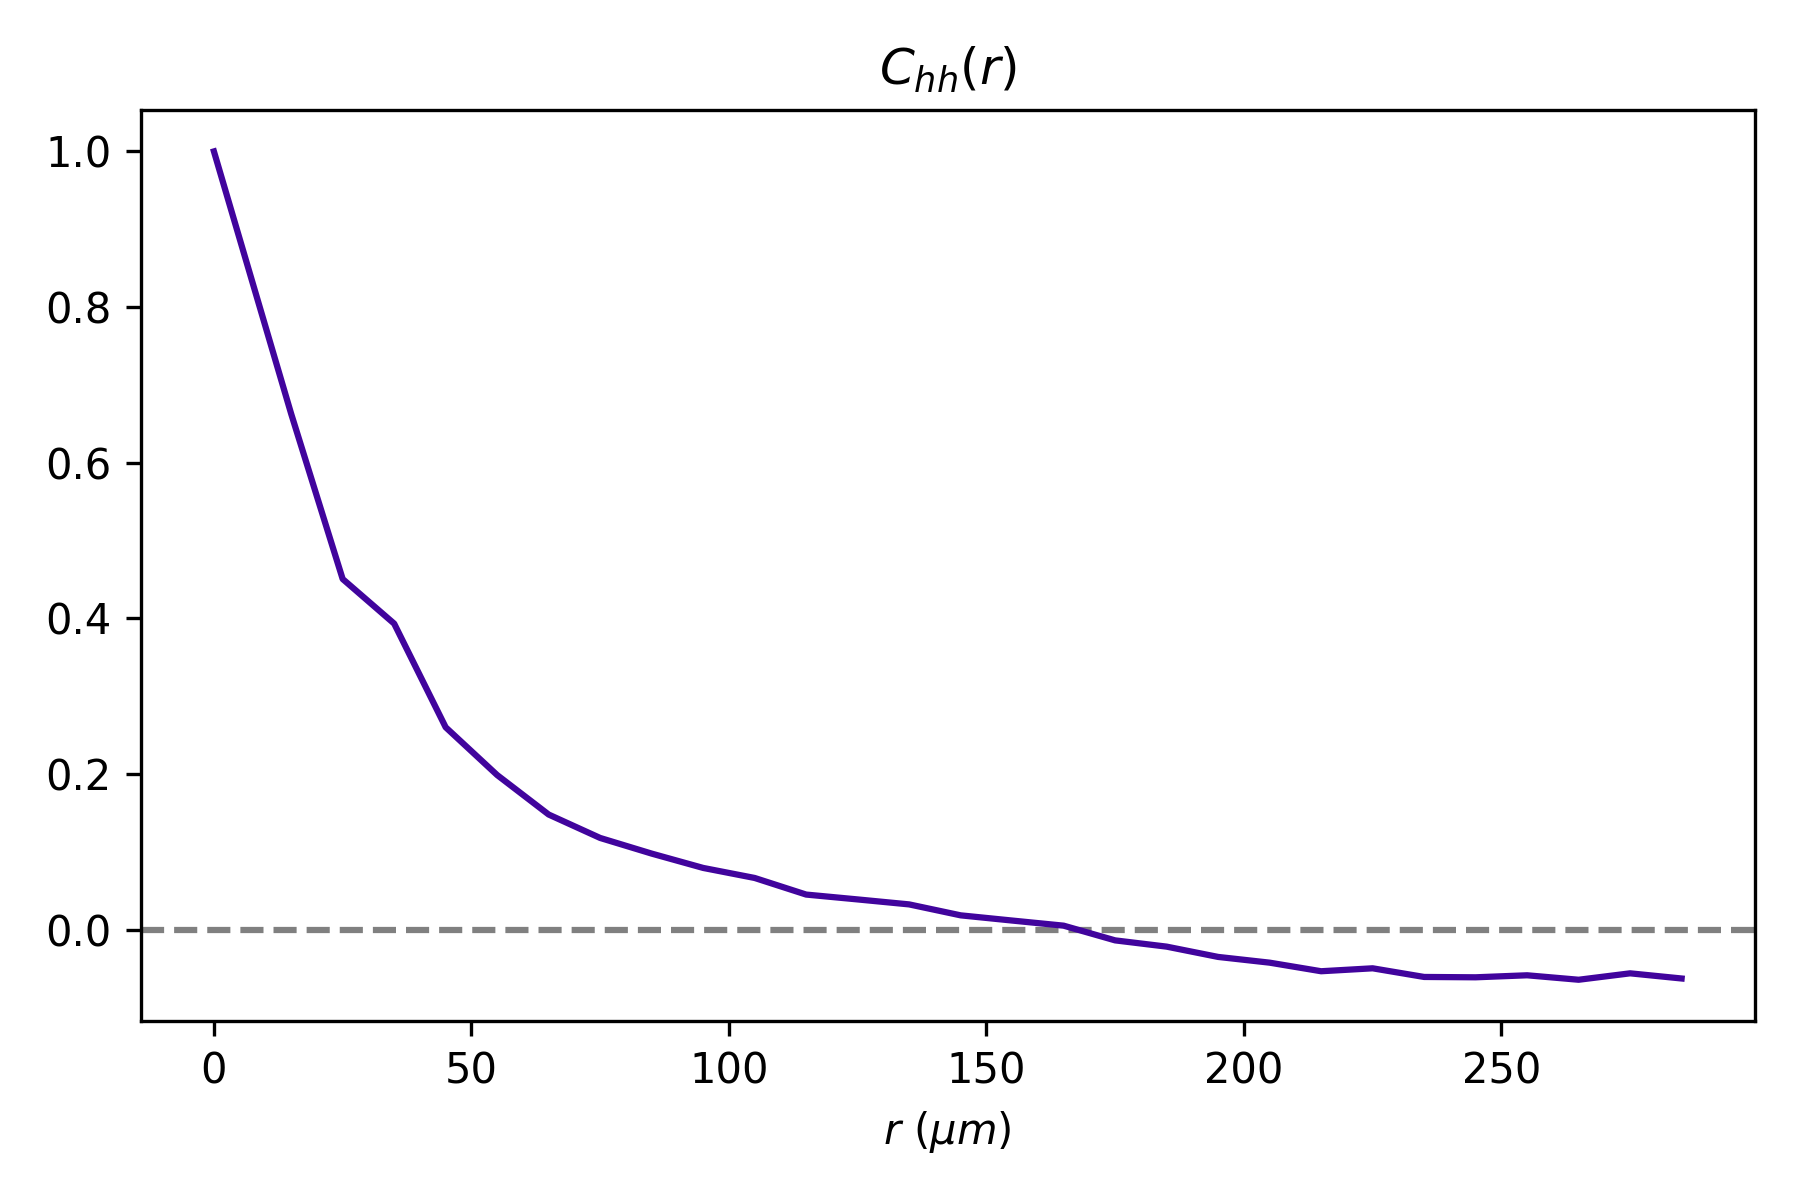
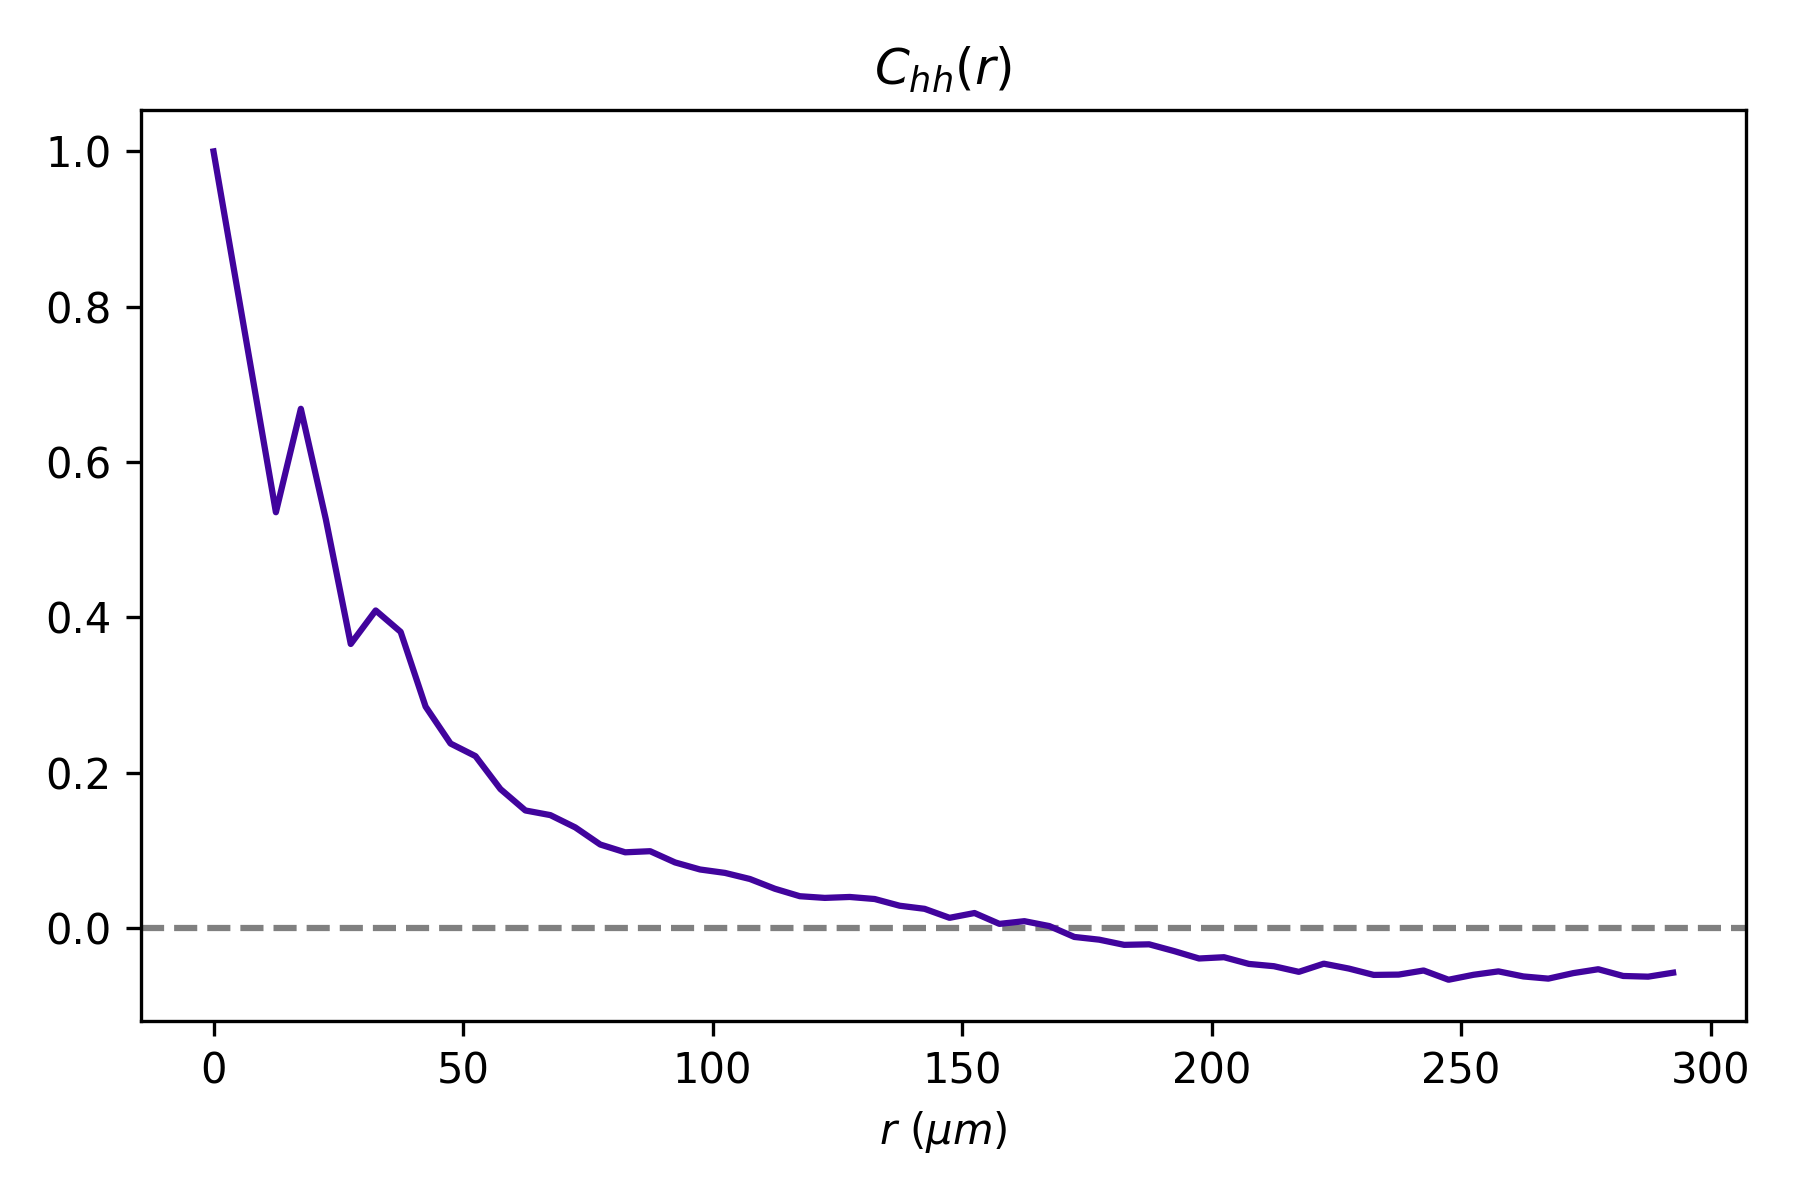
removed reference to xlim

diff --git a/analysis/visualization/plot_correlations.py b/analysis/visualization/plot_correlations.py
@@ -166,15 +166,13 @@ def plot_correlation(path, label, color, args):
             x = corr_obj.t_array[args.param] #/ vmean
         elif args.units == "exp":
             #print(vmean, config_file["experimental"]["rhex"], config_file["experimental"]["vmean"])
-            x = corr_obj.t_array[args.param][:-1]# * (vmean * config_file["experimental"]["rhex"]) / config_file["experimental"]["vmean"]
+            x = corr_obj.t_array[args.param] # * (vmean * config_file["experimental"]["rhex"]) / config_file["experimental"]["vmean"]
             y = corr_obj.temporal[args.param]
-            print(len(x), print(len(y)))
-        plt.plot(x[(x <= args.xlim) * (y <=
-                                        args.ylim)], y[(x <= args.xlim) * (y <= args.ylim)],
+
+        plt.plot(x[(x <= args.xlim) * (y <= args.ylim)], y[(x <= args.xlim) * (y <= args.ylim)],
                     args.fmt,
                     color=color, 
                     label=label)
-        plt.xlim(0,30)
 
 
 
